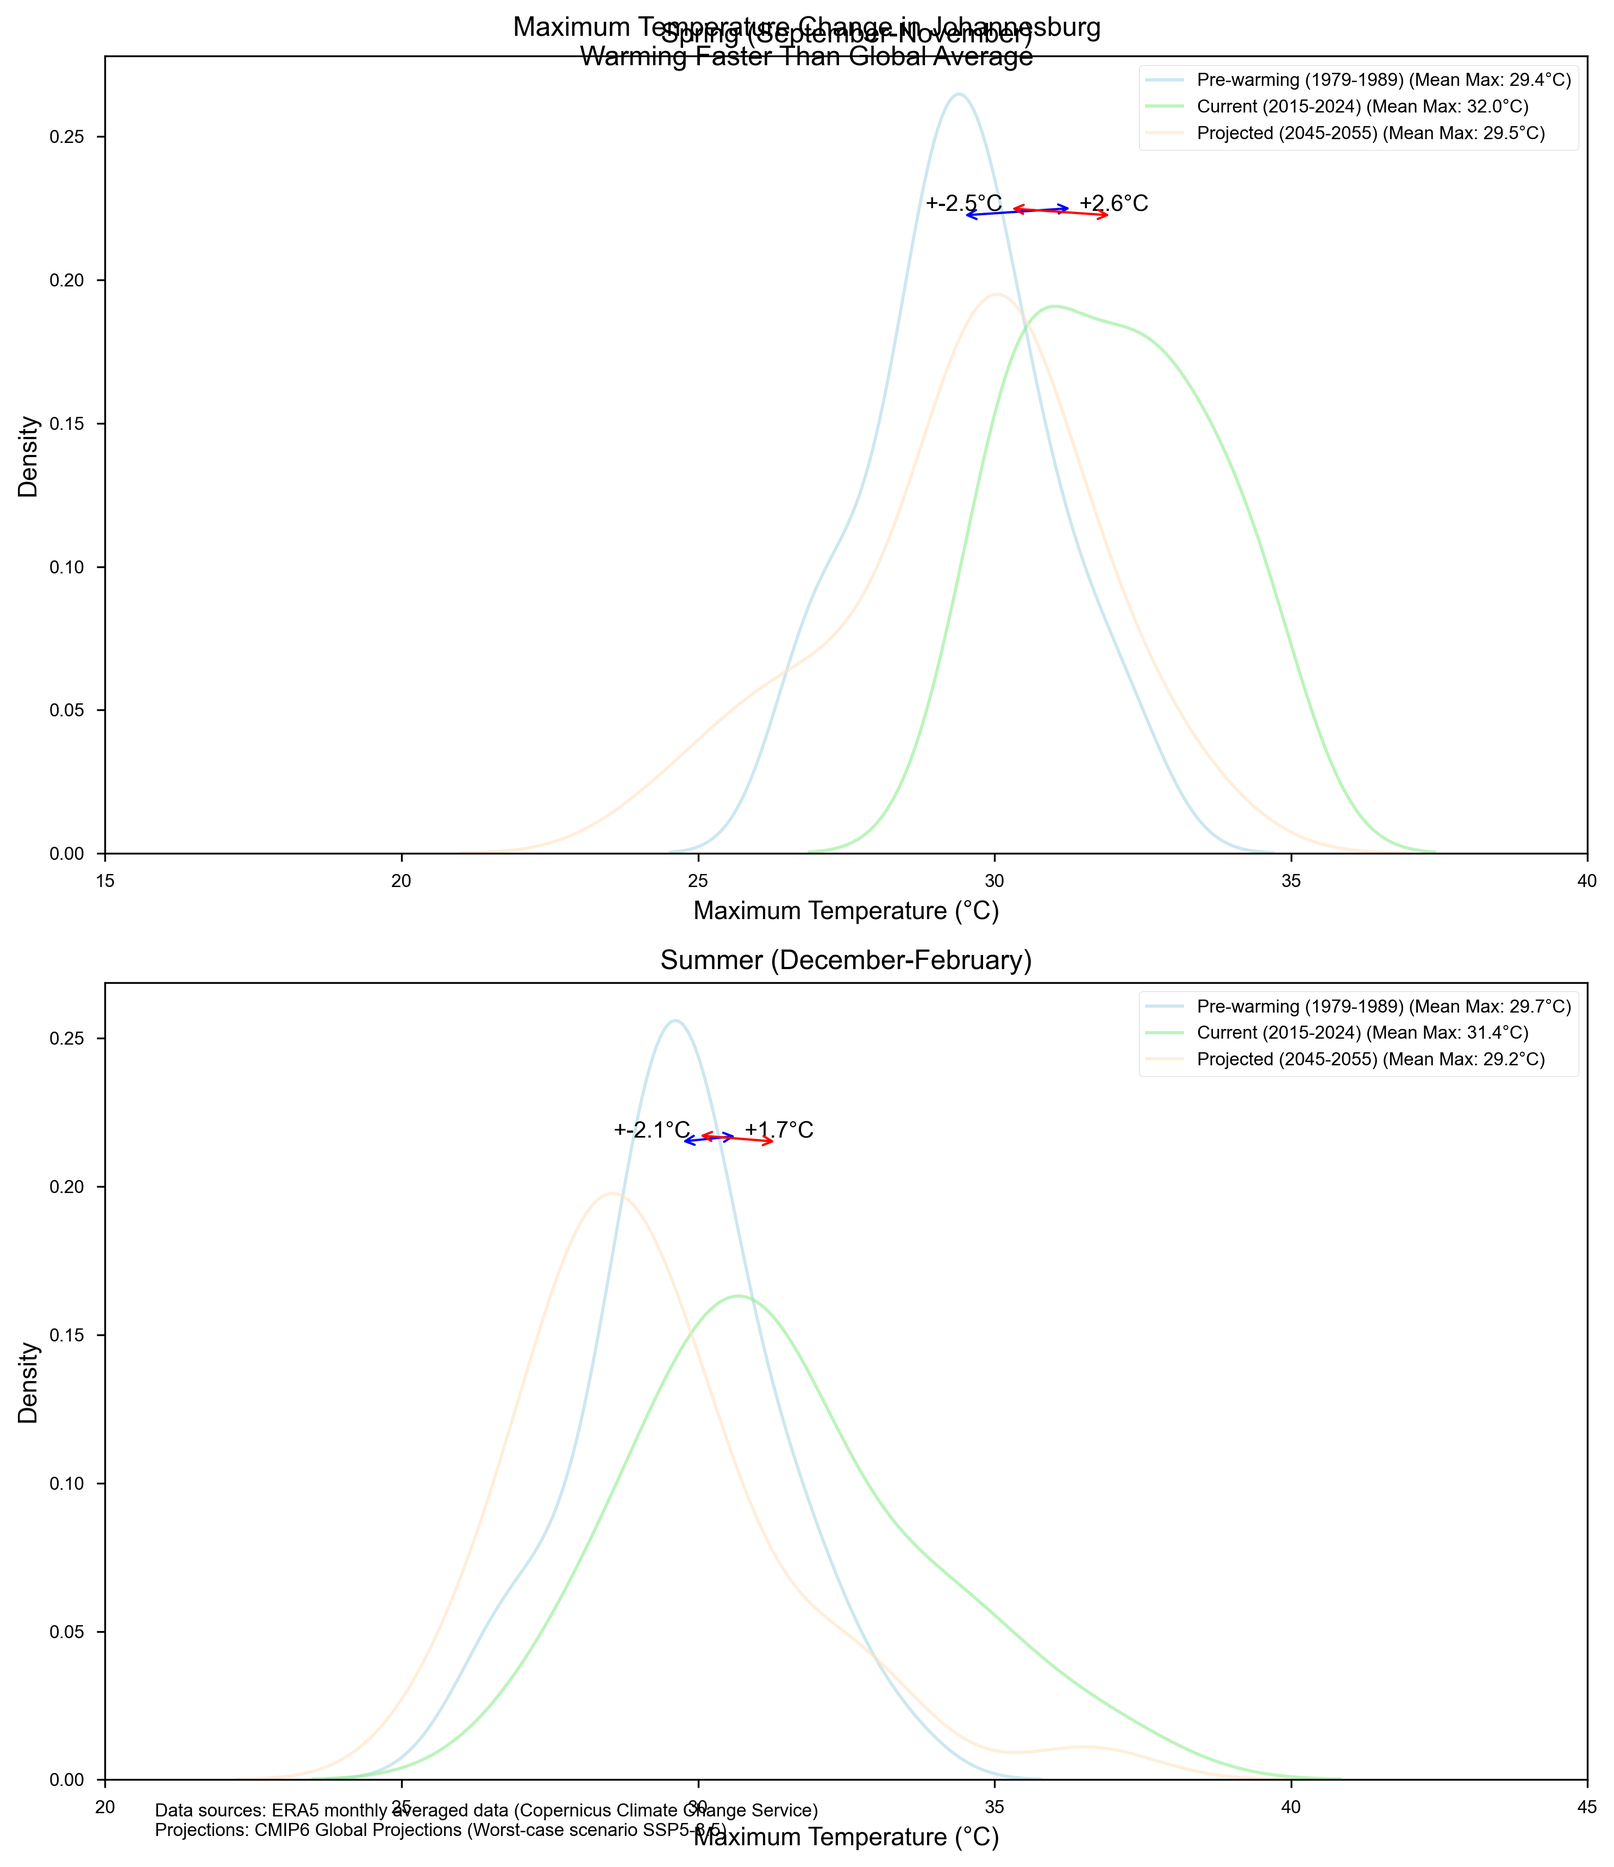
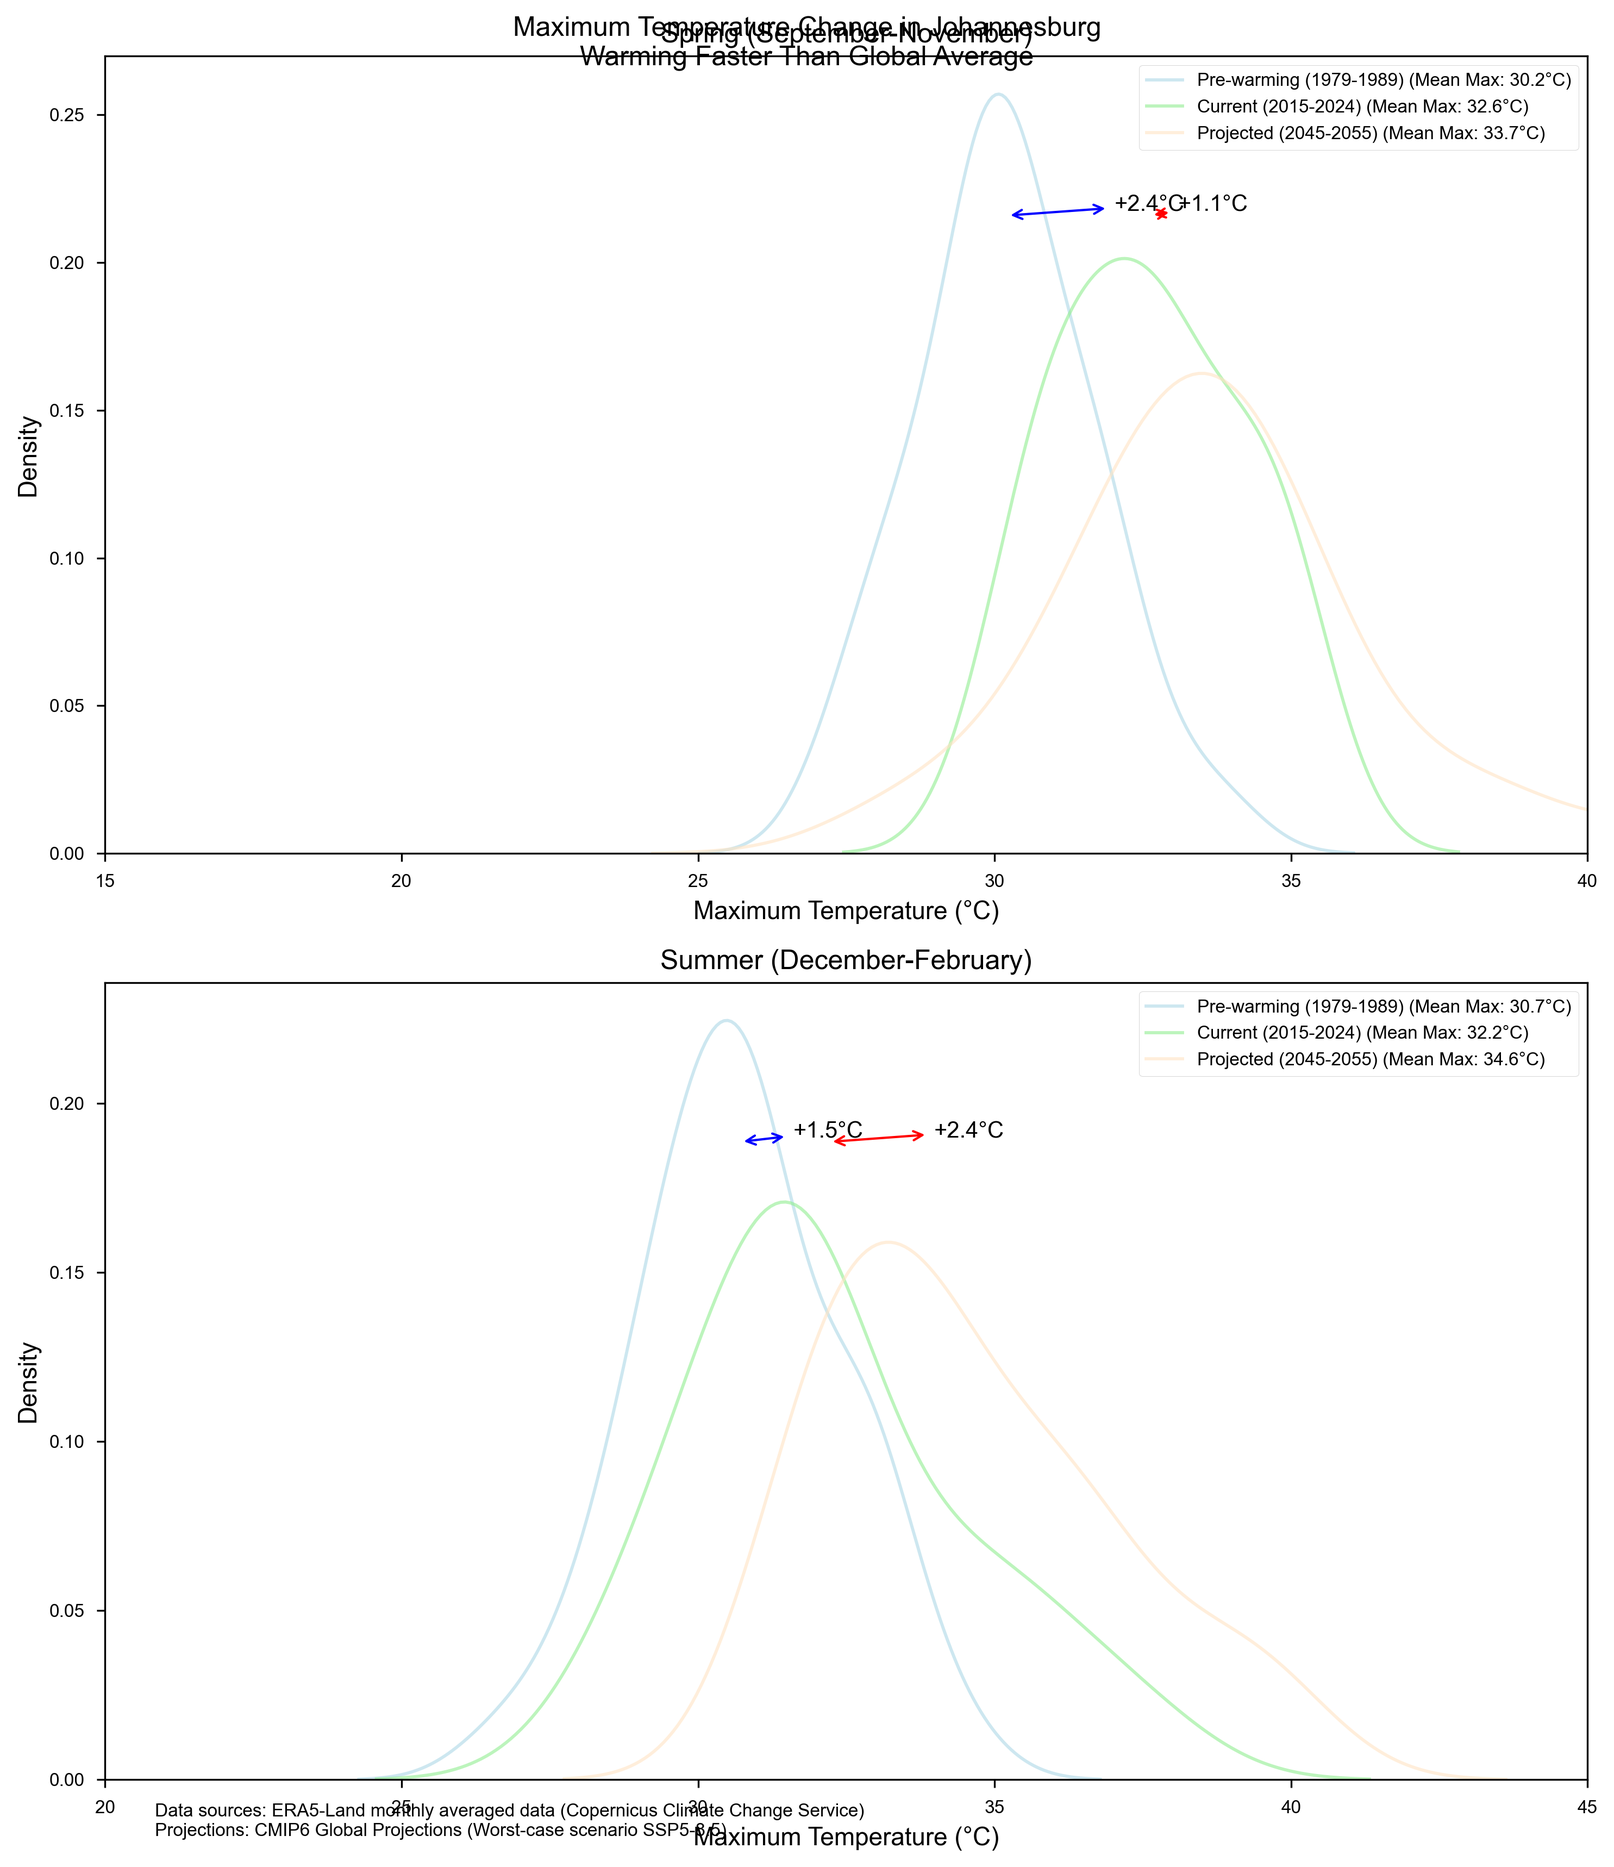
tmax_png

diff --git a/seasonal_analysis.py b/seasonal_analysis.py
@@ -9,6 +9,7 @@ from PIL import Image
 import io
 from tqdm import tqdm
 import calendar
+import sys
 
 # Set publication-ready style
 plt.style.use('seaborn-v0_8-paper')
@@ -76,41 +77,43 @@ def get_temperature_data(start_year, end_year, aoi, dataset='ERA5', scenario=Non
     
     elif dataset == 'CMIP6':
         try:
-            # Use CMIP6 data with simplified processing - one year at a time
             all_data = []
+            years = list(range(start_year, end_year + 1))
             
-            for year in range(start_year, end_year + 1):
-                collection = ee.ImageCollection('NASA/GDDP-CMIP6')\
-                    .filter(ee.Filter.date(f'{year}-01-01', f'{year}-12-31'))\
-                    .filter(ee.Filter.eq('scenario', scenario))\
-                    .select('tas')
-                
-                # Get monthly maximums
-                for month in range(1, 13):
-                    monthly_data = collection.filter(
-                        ee.Filter.calendarRange(month, month, 'month')
-                    )
+            # Create progress bar for years
+            with tqdm(years, desc=f"Processing CMIP6 {scenario} data") as pbar:
+                for year in pbar:
+                    collection = ee.ImageCollection('NASA/GDDP-CMIP6')\
+                        .filter(ee.Filter.date(f'{year}-01-01', f'{year}-12-31'))\
+                        .filter(ee.Filter.eq('scenario', scenario))\
+                        .select('tas')
                     
-                    if monthly_data.size().getInfo() > 0:
-                        max_temp = monthly_data.max()
-                        temp = max_temp.reduceRegion(
-                            reducer=ee.Reducer.max(),
-                            geometry=aoi,
-                            scale=5000
-                        ).get('tas')
+                    # Get monthly maximums
+                    for month in range(1, 13):
+                        monthly_data = collection.filter(
+                            ee.Filter.calendarRange(month, month, 'month')
+                        )
                         
-                        temp_celsius = ee.Number(temp).subtract(273.15).getInfo()
-                        all_data.append({
-                            'year': year,
-                            'month': month,
-                            'temperature': temp_celsius
-                        })
-                
-                print(f"Processed CMIP6 data for year {year}")
+                        if monthly_data.size().getInfo() > 0:
+                            max_temp = monthly_data.max()
+                            temp = max_temp.reduceRegion(
+                                reducer=ee.Reducer.max(),
+                                geometry=aoi,
+                                scale=5000
+                            ).get('tas')
+                            
+                            temp_celsius = ee.Number(temp).subtract(273.15).getInfo()
+                            all_data.append({
+                                'year': year,
+                                'month': month,
+                                'temperature': temp_celsius
+                            })
+                    
+                    pbar.set_postfix({'temp': f"{temp_celsius:.1f}°C"})
             
             if all_data:
                 df = pd.DataFrame(all_data)
-                print(f"\nCMIP6 {scenario} data for {start_year}-{end_year}")
+                print(f"\nCMIP6 {scenario} data summary:")
                 print(f"Max temperature: {df['temperature'].max():.1f}°C")
                 print(f"Temperature range: {df['temperature'].min():.1f}°C to {df['temperature'].max():.1f}°C")
                 return df
@@ -120,122 +123,171 @@ def get_temperature_data(start_year, end_year, aoi, dataset='ERA5', scenario=Non
             return None
 
 def get_data_for_period(start_year, end_year, aoi, dataset='ERA5', scenario=None):
-    print(f"\nFetching {dataset} data for {start_year}-{end_year}...")
+    # Calculate total years for progress tracking
+    total_years = end_year - start_year + 1
+    chunk_size = 5  # Process 5 years at a time
     
-    # Get data in smaller chunks if period is long
-    if end_year - start_year > 5:
-        mid_year = start_year + (end_year - start_year) // 2
-        df1 = get_temperature_data(start_year, mid_year, aoi, dataset, scenario)
-        df2 = get_temperature_data(mid_year + 1, end_year, aoi, dataset, scenario)
-        if df1 is not None and df2 is not None:
-            return pd.concat([df1, df2])
-        return df1 if df1 is not None else df2
+    all_data = []
+    chunks = [(i, min(i + chunk_size - 1, end_year)) 
+              for i in range(start_year, end_year + 1, chunk_size)]
     
-    return get_temperature_data(start_year, end_year, aoi, dataset, scenario)
+    with tqdm(chunks, desc=f"Fetching {dataset} data") as pbar:
+        for chunk_start, chunk_end in pbar:
+            df = get_temperature_data(chunk_start, chunk_end, aoi, dataset, scenario)
+            if df is not None:
+                all_data.append(df)
+                if len(df) > 0:
+                    pbar.set_postfix({'temp': f"{df['temperature'].max():.1f}°C"})
+    
+    if all_data:
+        final_df = pd.concat(all_data, ignore_index=True)
+        print(f"\n{dataset} data summary for {start_year}-{end_year}:")
+        print(f"Records: {len(final_df)}")
+        print(f"Temperature range: {final_df['temperature'].min():.1f}°C to {final_df['temperature'].max():.1f}°C")
+        return final_df
+    return None
 
 def create_comparison_plot(historical_dfs, current_df, projection_dfs):
-    seasons = {
-        'Spring': list(range(9, 12)),  # September to November
-        'Summer': [12, 1, 2]  # December to February
-    }
+    """Create comparison plot for historical, current and projected temperatures."""
+    print("\nCreating visualization...")
     
-    fig, axes = plt.subplots(2, 1, figsize=(10, 12))
-    fig.suptitle('Maximum Temperature Change in Johannesburg\nWarming Faster Than Global Average', y=0.95)
+    # Set up the plot style
+    plt.style.use('default')
+    plt.rcParams.update({
+        'figure.figsize': [12, 14],  # Adjusted for better aspect ratio
+        'font.size': 12,
+        'axes.grid': True,
+        'grid.alpha': 0.3,
+        'axes.labelsize': 11,
+        'axes.titlesize': 12,
+        'xtick.labelsize': 10,
+        'ytick.labelsize': 10,
+        'legend.fontsize': 10,
+        'figure.dpi': 300
+    })
     
-    for idx, (season, months) in enumerate(seasons.items()):
-        ax = axes[idx]
-        
-        # Filter data for the current season and get maximum temperatures
-        hist_season = pd.concat([df[df['month'].isin(months)]['temperature'] for df in historical_dfs.values()])
-        curr_season = current_df[current_df['month'].isin(months)]['temperature']
-        proj_season = pd.concat([df[df['month'].isin(months)]['temperature'] for df in projection_dfs.values()])
-        
-        # Calculate means of maximum temperatures
-        hist_max_mean = hist_season.mean()
-        curr_max_mean = curr_season.mean()
-        proj_max_mean = proj_season.mean()
-        
-        # Plot density curves with higher temperature range
-        sns.kdeplot(data=hist_season, ax=ax, color='lightblue', alpha=0.6, 
-                   label=f'Pre-warming (1979-1989) (Mean Max: {hist_max_mean:.1f}°C)')
-        sns.kdeplot(data=curr_season, ax=ax, color='lightgreen', alpha=0.6, 
-                   label=f'Current (2015-2024) (Mean Max: {curr_max_mean:.1f}°C)')
-        sns.kdeplot(data=proj_season, ax=ax, color='bisque', alpha=0.6, 
-                   label=f'Projected (2045-2055) (Mean Max: {proj_max_mean:.1f}°C)')
-        
-        # Add arrows and temperature change annotations
-        curr_change = curr_max_mean - hist_max_mean
-        proj_change = proj_max_mean - curr_max_mean
-        arrow_y = ax.get_ylim()[1] * 0.8
-        
-        # First arrow (historical to current)
-        ax.annotate(f'+{curr_change:.1f}°C', 
-                   xy=(hist_max_mean, arrow_y),
-                   xytext=(curr_max_mean, arrow_y),
-                   arrowprops=dict(arrowstyle='<->', color='blue', lw=1),
-                   ha='center', va='bottom')
-        
-        # Second arrow (current to projected)
-        ax.annotate(f'+{proj_change:.1f}°C',
-                   xy=(curr_max_mean, arrow_y),
-                   xytext=(proj_max_mean, arrow_y),
-                   arrowprops=dict(arrowstyle='<->', color='red', lw=1),
-                   ha='center', va='bottom')
-        
-        ax.set_title(f'{season} ({calendar.month_name[months[0]].capitalize()}-{calendar.month_name[months[-1]].capitalize()})')
+    fig, (ax1, ax2) = plt.subplots(2, 1, figsize=(12, 14), height_ratios=[1, 1])
+    fig.subplots_adjust(top=0.92, bottom=0.08, hspace=0.25)  # Adjusted spacing
+    fig.suptitle('Temperature Analysis for Johannesburg\nHistorical (1979-1989) vs Current (2015-2024) vs Projected (2045-2055)', 
+                 fontsize=14, fontweight='bold', y=0.95)
+    
+    # Colors for different periods
+    historical_color = '#1f77b4'  # Blue
+    current_color = '#2ca02c'     # Green
+    projected_color = '#ff7f0e'   # Orange
+    
+    # Plot Spring/Summer (Sep-Feb)
+    spring_summer_months = [9, 10, 11, 12, 1, 2]
+    plot_seasonal_kde(ax1, historical_dfs, current_df, projection_dfs, spring_summer_months,
+                     historical_color, current_color, projected_color)
+    ax1.set_title('Spring/Summer Temperatures (Sep-Feb)', pad=10)
+    
+    # Plot Autumn/Winter (Mar-Aug)
+    autumn_winter_months = [3, 4, 5, 6, 7, 8]
+    plot_seasonal_kde(ax2, historical_dfs, current_df, projection_dfs, autumn_winter_months,
+                     historical_color, current_color, projected_color)
+    ax2.set_title('Autumn/Winter Temperatures (Mar-Aug)', pad=10)
+    
+    # Common settings for both subplots
+    for ax in [ax1, ax2]:
         ax.set_xlabel('Maximum Temperature (°C)')
         ax.set_ylabel('Density')
-        ax.legend()
+        ax.grid(True, alpha=0.3, linestyle='--')
+        ax.legend(loc='upper right', framealpha=0.9)
         
-        # Set x-axis range to focus on high temperatures
-        if season == 'Spring':
-            ax.set_xlim(15, 40)  # Adjusted for spring maximum temperatures
-        else:  # Summer
-            ax.set_xlim(20, 45)  # Adjusted for summer maximum temperatures
-    
     # Add data source information
-    plt.figtext(0.1, 0.02, 
-                'Data sources: ERA5-Land monthly averaged data (Copernicus Climate Change Service)\n' +
-                'Projections: CMIP6 Global Projections (Worst-case scenario SSP5-8.5)',
-                fontsize=8, ha='left')
+    fig.text(0.1, 0.02, 
+             'Data sources: ERA5-Land monthly averaged data (Copernicus Climate Change Service)\n' +
+             'Projections: CMIP6 Global Projections (Worst-case scenario SSP5-8.5)',
+             fontsize=8, ha='left')
     
     plt.tight_layout()
-    plt.savefig('temperature_distributions.png', 
-                bbox_inches='tight',
-                dpi=300,
-                facecolor='white',
-                edgecolor='none')
+    plt.savefig('temperature_analysis.png', dpi=300, bbox_inches='tight')
     plt.close()
+
+def plot_seasonal_kde(ax, historical_dfs, current_df, projection_dfs, months,
+                     historical_color, current_color, projected_color):
+    """Plot seasonal data using KDE for a specific set of months."""
     
-    print("Plot saved as 'temperature_distributions.png'")
+    # Filter and plot historical data
+    historical_seasonal = pd.concat([df[df['month'].isin(months)] for df in historical_dfs.values()])
+    historical_mean = historical_seasonal['temperature'].mean()
+    
+    # Plot historical KDE
+    sns.kdeplot(data=historical_seasonal['temperature'], ax=ax, color=historical_color,
+                label=f'Historical (1979-1989) (Mean: {historical_mean:.1f}°C)',
+                linewidth=2)
+    
+    # Fill under historical KDE curve
+    line = ax.lines[-1]
+    x, y = line.get_data()
+    ax.fill_between(x, 0, y, color=historical_color, alpha=0.2)
+    
+    # Filter and plot current data
+    current_seasonal = current_df[current_df['month'].isin(months)]
+    current_mean = current_seasonal['temperature'].mean()
+    
+    # Plot current KDE
+    sns.kdeplot(data=current_seasonal['temperature'], ax=ax, color=current_color,
+                label=f'Current (2015-2024) (Mean: {current_mean:.1f}°C)',
+                linewidth=2)
+    
+    # Fill under current KDE curve
+    line = ax.lines[-1]
+    x, y = line.get_data()
+    ax.fill_between(x, 0, y, color=current_color, alpha=0.2)
+    
+    # Filter and plot projection data
+    projection_seasonal = pd.concat([df[df['month'].isin(months)] for df in projection_dfs.values()])
+    projection_mean = projection_seasonal['temperature'].mean()
+    
+    # Plot projection KDE
+    sns.kdeplot(data=projection_seasonal['temperature'], ax=ax, color=projected_color,
+                label=f'Projected (2045-2055) (Mean: {projection_mean:.1f}°C)',
+                linewidth=2)
+    
+    # Fill under projection KDE curve
+    line = ax.lines[-1]
+    x, y = line.get_data()
+    ax.fill_between(x, 0, y, color=projected_color, alpha=0.2)
+    
+    # Add temperature change annotations
+    y_pos = ax.get_ylim()[1] * 0.8
+    ax.annotate(f'+{current_mean - historical_mean:.1f}°C',
+                xy=(historical_mean + 1, y_pos),
+                xytext=(current_mean - 1, y_pos),
+                arrowprops=dict(arrowstyle='<->', color='gray'),
+                ha='center', va='bottom', fontsize=10)
+    
+    ax.annotate(f'+{projection_mean - current_mean:.1f}°C',
+                xy=(current_mean + 1, y_pos),
+                xytext=(projection_mean - 1, y_pos),
+                arrowprops=dict(arrowstyle='<->', color='gray'),
+                ha='center', va='bottom', fontsize=10)
 
 if __name__ == "__main__":
-    print("=== Testing with smaller date ranges first ===")
+    print("=== Analyzing Johannesburg Temperature Data ===")
     
-    # Test with just 2 years of historical data
-    print("\nTesting Historical Data (1979-1980)...")
+    # Historical data (1979-1989)
+    print("\nFetching Historical Data...")
     historical_dfs = {}
-    historical_data = get_data_for_period(1979, 1980, JOBURG_AREA, 'ERA5')
+    historical_data = get_data_for_period(1979, 1989, JOBURG_AREA, 'ERA5')
     if historical_data is not None:
-        historical_dfs['1979-1980'] = historical_data
-        print(" Historical data retrieved successfully")
+        historical_dfs['1979-1989'] = historical_data
     
-    # Test with 2 years of current data
-    print("\nTesting Current Data (2022-2023)...")
-    current_df = get_data_for_period(2022, 2023, JOBURG_AREA, 'ERA5')
-    if current_df is not None:
-        print(" Current data retrieved successfully")
+    # Current data (2015-2024)
+    print("\nFetching Current Data...")
+    current_df = get_data_for_period(2015, 2024, JOBURG_AREA, 'ERA5')
     
-    # Test with 2 years of projection data
-    print("\nTesting Projection Data (2045-2046)...")
+    # Future projections (2045-2055)
+    print("\nFetching Future Projections...")
     projection_dfs = {}
-    projection_data = get_data_for_period(2045, 2046, JOBURG_AREA, 'CMIP6', scenario='ssp585')
+    projection_data = get_data_for_period(2045, 2055, JOBURG_AREA, 'CMIP6', scenario='ssp585')
     if projection_data is not None:
-        projection_dfs['2045-2046 (SSP5-8.5)'] = projection_data
-        print(" Projection data retrieved successfully")
+        projection_dfs['2045-2055 (SSP5-8.5)'] = projection_data
     
     # Create the plot if we have data
     if current_df is not None:
-        print("\nCreating plot...")
+        print("\nCreating visualization...")
         create_comparison_plot(historical_dfs, current_df, projection_dfs)
-        print(" Done!")
+        print("Analysis complete! Check 'temperature_analysis.png' for results.")
